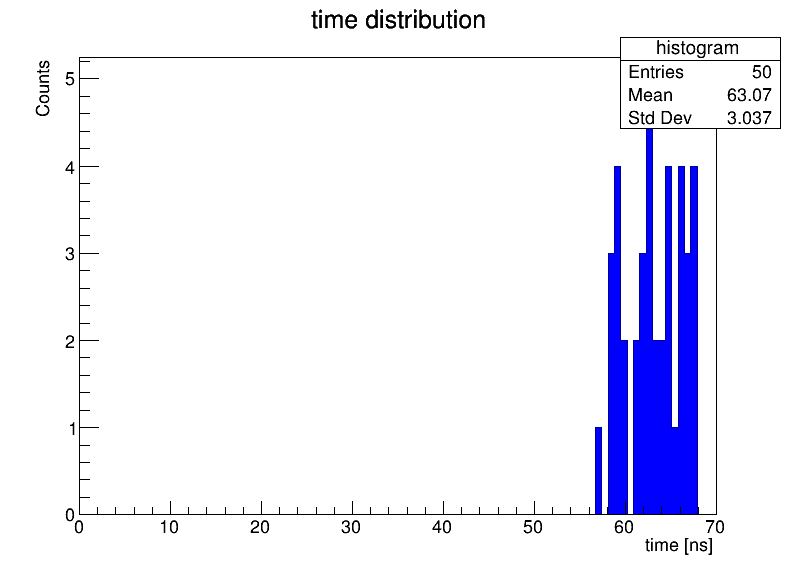
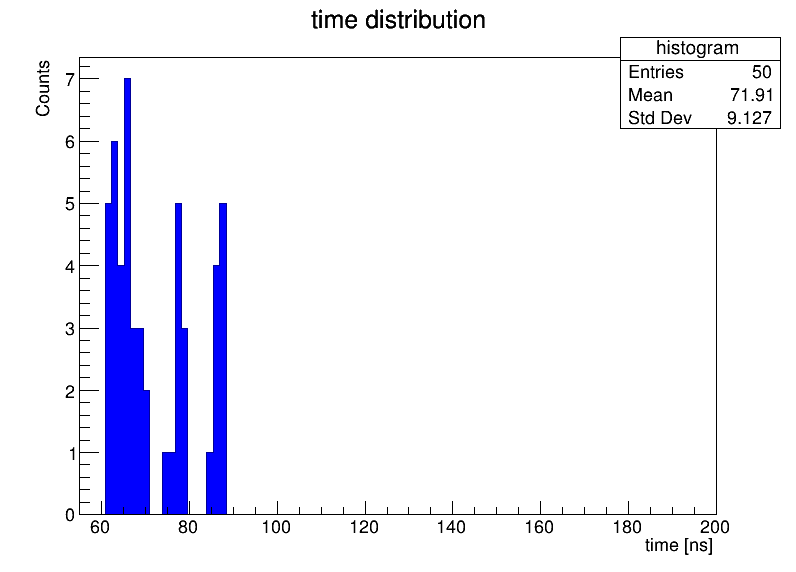
new commit

diff --git a/time_distribution.C b/time_distribution.C
@@ -34,7 +34,7 @@ int main() {
     std::mt19937 g(rd());
     std::shuffle(time.begin(), time.end(), g);
     
-    TH1F *histogram = new TH1F("histogram", "time distribution", 100, 0, 70);
+    TH1F *histogram = new TH1F("histogram", "time distribution", 100, 55, 200);
 histogram->SetFillColor(kBlue); // Imposta il colore di riempimento dell'istogramma a rosso
 histogram->SetXTitle("time [ns]"); // Imposta l'etichetta dell'asse x
 histogram->SetYTitle("Counts"); // Imposta l'etichetta dell'asse y
